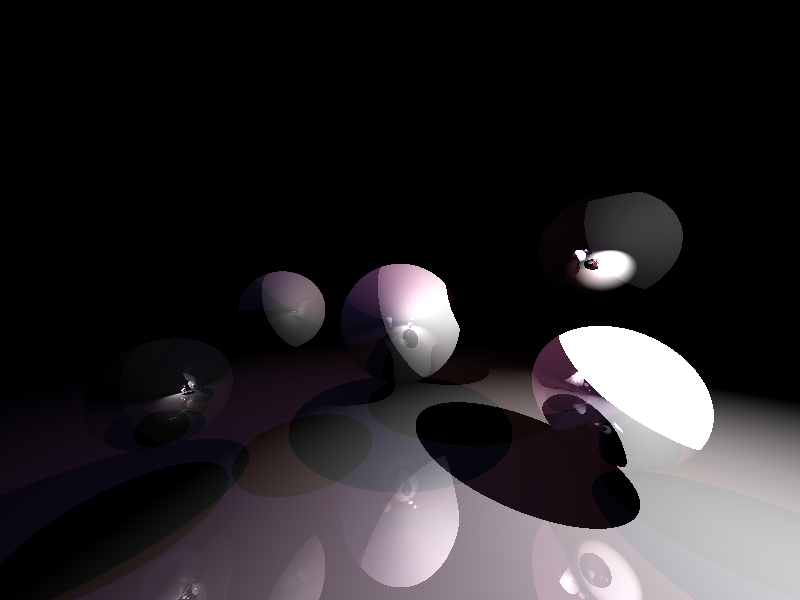
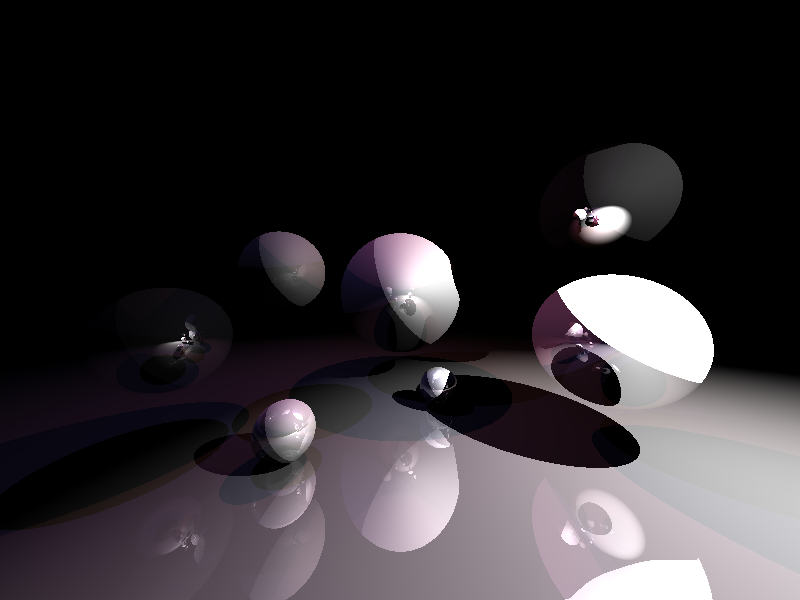
Updated render

diff --git a/main.py b/main.py
@@ -222,24 +222,26 @@ def main():
     height = 600
 
     # Initializing the scene
-    cam = Camera(canvas_size=[width, height], origin=[0, 1, 0])
-    a = Sphere(origin=[0, 4, 32], radius=8, reflectivity=0.6, specular=2, color=(0.858, 0.858, 0.858))
-    b = Sphere(origin=[-12, 2, 24], radius=4, reflectivity=0.1, color=(0.501, 0.501, 0.501))
-    c = Sphere(origin=[-18, 8, 18], radius=4, specular=1.0, color=(0.12, 0.12, 0.12))
-    d = Sphere(origin=[19, -4, 22], radius=5, specular=1.2, reflectivity=2, color=(0.1, 0.1, 0.1))
-    e = Sphere(origin=[16, 8, 18], radius=5, specular=1.0, reflectivity=1.0, color=(1.0, 1.0, 1.0))
-    f = Floor(origin=[0, 16, 0], reflectivity=0.32, color=(0.5, 0.5, 0.5))
+    cam = Camera(canvas_size=(width, height), origin=(0, 5, 0))
+    a = Sphere(origin=(0, 4, 32), radius=8, reflectivity=0.6, specular=2, color=(0.858, 0.858, 0.858))
+    b = Sphere(origin=(-12, 2, 24), radius=4, reflectivity=0.1, color=(0.501, 0.501, 0.501))
+    c = Sphere(origin=(-18, 8, 18), radius=4, specular=1.0, color=(0.12, 0.12, 0.12))
+    d = Sphere(origin=(19, -4, 22), radius=5, specular=1.2, reflectivity=2, color=(0.1, 0.1, 0.1))
+    e = Sphere(origin=(16, 8, 18), radius=5, specular=1.0, reflectivity=1.0, color=(1.0, 1.0, 1.0))
+    f = Floor(origin=(0, 16, 0), reflectivity=0.32, color=(0.5, 0.5, 0.5))
+    g = Sphere(origin=(4, 14, 24), radius=2, reflectivity=0.6, specular=2, color=(1.0, 1.0, 1.0))
+    h = Sphere(origin=(-8, 14, 16), radius=2, reflectivity=0.6, specular=2, color=(1.0, 1.0, 1.0))
 
-    light1 = Light(origin=[24, -8, 8], power=1.0, color=(16.0, 16.0, 16.0), max_distance=50)
-    light2 = Light(origin=[0, -16, 32], power=1.0, color=(2.0, 0.8, 0.8), max_distance=64)
-    light3 = Light(origin=[-16, -22, 24], power=1.0, color=(1.0, 0.8, 2.0), max_distance=64)
+    light1 = Light(origin=(24, -8, 8), power=1.0, color=(16.0, 16.0, 16.0), max_distance=50)
+    light2 = Light(origin=(0, -16, 32), power=1.0, color=(2.0, 0.8, 0.8), max_distance=64)
+    light3 = Light(origin=(-16, -22, 24), power=1.0, color=(1.0, 0.8, 2.0), max_distance=64)
 
     # Set up PIL to render the image
     im = Image.new(mode="RGB", size=cam.canvas_size)
     draw = ImageDraw.Draw(im)
 
     start = time.time()
-    cam.render(draw, [a, b, c, d, f, e], [light1, light2, light3])
+    cam.render(draw, (a, b, c, d, f, e, g, h), (light1, light2, light3))
     print("Rendering complete: %f seconds" % (time.time() - start))
 
     with open("render.png", "wb") as f:

diff --git a/README.md b/README.md
@@ -1,10 +1,10 @@
 # python-raytracer
-Custom raytracer implemented in python. Currently only supports
+Basic raytracer implemented in python. Currently only supports
 planes, spheres, and lights.
 
 ![Example render](render.png)
 
-# Attribution
+## Attribution
 
 - [Kyle Halladay's sphere intersection explanation](http://kylehalladay.com/blog/tutorial/math/2013/12/24/Ray-Sphere-Intersection.html)
 - [Scratchapixel.com's raytracing explanation](https://www.scratchapixel.com/lessons/3d-basic-rendering/introduction-to-ray-tracing/how-does-it-work)
